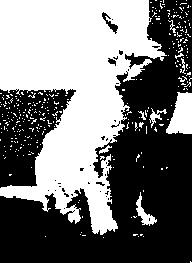
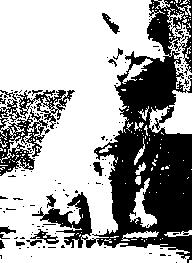
Modificacion del grayscale para blanco y negro

diff --git a/filtro.py b/filtro.py
@@ -12,12 +12,12 @@ def b_and_w(scale):
     for i in range(x):
         for j in range(y):
             (r,g,b)=original.getpixel((i, j))
-            mini = max((r,g,b))
-            if(mini<scale):
-                mini = 0
+            bw = (r+g+b)/3
+            if(bw<scale):
+                bw = 0
             else:
-                mini = 255
-            im.putpixel((i,j), (mini,mini,mini))
+                bw = 255
+            im.putpixel((i,j), (bw,bw,bw))
 
 def grayscale(tipo):
     for i in range(x):
